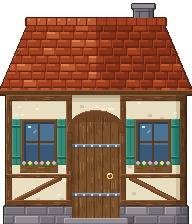
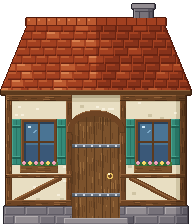
v3 village round 3: summer stone house from this tool, open chest lid inside the frame
- obj.v3.house_stone.png (summer) replaced by house_stone("summer") (the
  coordinator's decision): the pilot drawing plus short glints and a
  chimney cap one row lower; pilot_drawing=True still matches 814aa23
- obj.chest.open: lid 2 rows lower (row 0 is outline only); no winter
  file (no snow on an opened lid, the summer file is used)
- winter roofs: 4 drifts with their own span, height, slope and wave
- campfire snow kept 2 texels in from the sides; house eaves 1 texel in
- check tool: seasons without a file fall back to summer
- VILLAGE.md: the stone house decision, the memory decision (options 1
  and 2, 0.90 MB), round 3 table

Claude-Session: https://claude.ai/code/session_01VbGyibjwGmxCJ2yW5ydLfW

diff --git a/tools/art_v3/gen_village_v3.py b/tools/art_v3/gen_village_v3.py
@@ -202,7 +202,16 @@ def roof_snow(c, roof_mask, bot, mid_x, seed, eave_y=None, icicle_x=None):
     for y, x in zip(ys, xs):
         rows.setdefault(x, []).append(y)
     ytop = int(ys.min())
-    drift_rows = [ytop + (bot - ytop) * f for f in (0.22, 0.45, 0.66)]
+    # round 3: each drift its own span, height, slope and wave (not 3 ruled parallel lines)
+    x_lo, x_hi = int(xs.min()), int(xs.max())
+    span = x_hi - x_lo
+    drifts = [  # (row as a share of the roof, from, to (shares of the width), slope, wave amp, wave freq)
+        (0.20, 0.05, 0.62, 0.03, 1.5, 0.09),
+        (0.44, 0.30, 0.97, -0.04, 2.5, 0.06),
+        (0.64, 0.00, 0.55, 0.02, 2.0, 0.11),
+        (0.70, 0.62, 1.00, -0.02, 1.5, 0.08),
+    ]
+    drift_rows = [(ytop + (bot - ytop) * f, x_lo + span * a, x_lo + span * b, sl, amp, fr) for f, a, b, sl, amp, fr in drifts]
     for x, col in rows.items():
         top = min(col)
         edge = int(bot - 9 - 2.5 * math.sin(x * 0.11 + seed) - 1.5 * math.sin(x * 0.047 + 2 * seed))
@@ -222,8 +231,10 @@ def roof_snow(c, roof_mask, bot, mid_x, seed, eave_y=None, icicle_x=None):
                 # each drift a lit crest over a 2-row shade
                 f = (y - ytop) / max(1, edge - ytop)
                 t = 6 if f < 0.28 else 5 if f < 0.62 else 4
-                for kd, yy in enumerate(drift_rows):
-                    v = y - yy - 2.0 * math.sin(x * 0.07 + kd * 1.9 + seed)
+                for kd, (yy, xa, xb, sl, amp, fr) in enumerate(drift_rows):
+                    if not xa <= x <= xb:
+                        continue
+                    v = y - yy - sl * (x - xa) - amp * math.sin(x * fr + kd * 1.9 + seed)
                     if 0 <= v < 1:
                         t = 6
                     elif 1 <= v < 3:
@@ -537,8 +548,9 @@ def house(season):
     c.fill(step, "stone", 4)
     bevel(c, step)
     # roof (over the wall's top), eaves board
-    rm = c.m_poly([(0, H_ROOF_BOT), (192, H_ROOF_BOT), (164, H_ROOF_TOP), (28, H_ROOF_TOP)])
-    roof_tiles(c, rm, H_ROOF_TOP, H_ROOF_BOT, 28, 164, 0, 192, mid, rng)
+    # round 3: the eaves 1 texel in from the picture's sides (their outline inside the picture)
+    rm = c.m_poly([(1, H_ROOF_BOT), (191, H_ROOF_BOT), (164, H_ROOF_TOP), (28, H_ROOF_TOP)])
+    roof_tiles(c, rm, H_ROOF_TOP, H_ROOF_BOT, 28, 164, 1, 191, mid, rng)
     ridge = c.m_rect(26, H_ROOF_TOP - 6, 165, H_ROOF_TOP + 1)
     c.fill(ridge, "roof", 4)
     for x in range(26, 166, 10):
@@ -546,9 +558,9 @@ def house(season):
         c.fill(c.m_rect(x + 2, H_ROOF_TOP - 5, x + 3, H_ROOF_TOP - 4), "roof", 5)
     c.fill(c.m_rect(26, H_ROOF_TOP + 1, 165, H_ROOF_TOP + 1), "roof", 1)
     c.fill(c.m_rect(97, H_ROOF_TOP - 6, 165, H_ROOF_TOP + 1) & (c.mat == c.mid("roof")) & (c.tone > 1), "roof", 3)
-    eave = c.m_rect(0, H_ROOF_BOT, W - 1, H_ROOF_BOT + 4)
+    eave = c.m_rect(1, H_ROOF_BOT, W - 2, H_ROOF_BOT + 4)
     c.fill(eave, "timber", 2)
-    c.fill(c.m_rect(0, H_ROOF_BOT, W - 1, H_ROOF_BOT), "timber", 4)
+    c.fill(c.m_rect(1, H_ROOF_BOT, W - 2, H_ROOF_BOT), "timber", 4)
     roof_all = (c.mat == c.mid("roof")) & c.m_rect(0, 0, W - 1, H_ROOF_BOT)
     # the right end of the wall in shade
     darken_right(c, c.m_rect(0, H_ROOF_BOT + 5, W - 1, H), 176)
@@ -564,15 +576,17 @@ def house(season):
 # ------------------------------------------------------------------ the stone house's seasons
 
 
-def house_stone(season, pilot_glass=False):
+def house_stone(season, pilot_drawing=False):
     """The pilot's drawing steps, in the pilot's order with its random sequence (summer = the pilot's
     file, pixel for pixel; checked by main), then the season: autumn flowers (ramps), winter snow."""
     r = ramps_for(season)
-    if pilot_glass:
+    if pilot_drawing:
         r["glass"] = HS.RAMPS["glass"]
     c = Canvas(HS.W, HS.H, r)
     rng = random.Random(42)
     HS.chimney(c)
+    if not pilot_drawing:  # round 3: the chimney cap one row lower, its outline on row 0 (not cut by the edge)
+        c.mat[0, :] = 0
     HS.side_wall(c, rng)
     HS.stones(c, 16, HS.UP_BOT, 239, HS.G, rng)
     c.fill(c.m_rect(16, HS.UP_BOT, 239, HS.UP_BOT + 4), "stone", 1)
@@ -581,7 +595,7 @@ def house_stone(season, pilot_glass=False):
     HS.window(c, 36, 202, 40, 50)
     HS.window(c, 180, 202, 40, 50)
     HS.front_door(c)
-    if not pilot_glass:
+    if not pilot_drawing:
         short_glints(c)  # round 2 (the pilot's own drawing keeps its long glints)
     for y, x in zip(*np.nonzero(c.mat != 0)):
         if x > 228 and c.tone[y, x] > 1 and y > HS.ROOF_BOT:
@@ -593,7 +607,8 @@ def house_stone(season, pilot_glass=False):
         c.tone[fl] = 3
         roof_all = (c.mat == c.mid("roof")) & c.m_rect(0, 0, HS.W - 1, HS.ROOF_BOT)
         roof_snow(c, roof_all, HS.ROOF_BOT, HS.W / 2, 5, eave_y=HS.ROOF_BOT + 4, icicle_x=(6, 248))
-        snow_on(c, ("stone",), seed=2, depth=(2, 3), mound=2, region=c.m_rect(178, 0, 210, 6))
+        snow_on(c, ("stone",), seed=2, depth=(2, 3), mound=2, region=c.m_rect(178, 0, 210, 6)) if pilot_drawing else \
+            snow_on(c, ("stone",), seed=2, depth=(2, 2), mound=0, region=c.m_rect(178, 0, 210, 6))
         for x0, w, y0, h in ((36, 40, 202, 50), (180, 40, 202, 50), (40, 30, 114, 40), (186, 30, 114, 40)):
             ledge_snow(c, x0 - 4, x0 + w + 3, y0 + h + 3, 4)
         despeckle(c, keep=("pink", "yellow", "iron"), loose=("snow",))
@@ -630,15 +645,15 @@ def chest(season, opened):
         c.fill(c.m_rect(3, 24, 60, 24), "gold", 4)
         c.fill(c.m_rect(3, 27, 60, 27), "gold", 1)
     else:  # round 2: the lid thrown right back (its dark underside), a dark mouth, a heap of gold
-        under = c.m_poly([(5, 21), (58, 21), (55, 2), (8, 2)])
+        under = c.m_poly([(5, 21), (58, 21), (55, 4), (8, 4)])  # round 3: 2 rows lower
         c.fill(under, "chestwood", 1)  # the underside, away from the light: dark
         for y0 in (8, 14):  # the underside's planks: a lit lip over a dark seam
             c.fill(c.m_rect(0, y0, 63, y0) & under, "chestwood", 0)
             c.fill(c.m_rect(0, y0 - 1, 63, y0 - 1) & under, "chestwood", 2)
-        c.fill(under & c.m_rect(0, 3, 63, 4), "chestwood", 2)
-        edge = c.m_poly([(8, 3), (55, 3), (54, 0), (9, 0)])  # the lid's thickness on top, lit
+        c.fill(under & c.m_rect(0, 4, 63, 5), "chestwood", 2)
+        edge = c.m_poly([(8, 5), (55, 5), (54, 1), (9, 1)])  # the lid's thickness, lit; outline on row 0
         c.fill(edge, "chestwood", 4)
-        c.fill(edge & c.m_rect(0, 3, 63, 3), "chestwood", 3)
+        c.fill(edge & c.m_rect(0, 4, 63, 4), "chestwood", 3)
         for bx in (11, 46):  # gold bands across the underside
             band = under & c.m_rect(bx, 0, bx + 5, 63)
             c.fill(band, "gold", 2)
@@ -675,7 +690,8 @@ def chest(season, opened):
     c.fill(c.m_rect(31, ly + 8, 32, ly + 9), "chestwood", 1)
     darken_right(c, c.m_rect(0, 0, 63, 63) & (c.mat == c.mid("chestwood")), 52)
     if season == "winter":
-        snow_on(c, ("chestwood", "gold"), seed=4 + opened, depth=(3, 3), mound=2)
+        if not opened:  # round 3: an opened lid has shed its snow
+            snow_on(c, ("chestwood", "gold"), seed=4, depth=(3, 3), mound=2)
     finish(c, keep=("gold", "gem"), loose=("snow",))
     return c
 
@@ -875,7 +891,7 @@ def campfire(season, frame):
             stone(*st)
             if season == "winter" and abs(st[1] - 31.5) > 8:  # snow on the outer front stones (cold)
                 m = c.m_ellipse(st[1], st[0], st[2], st[3]) & c.m_rect(0, 0, 63, 54) & (c.mat == c.mid("stone"))
-                cap_part(c, m, 2, 4)
+                cap_part(c, m & c.m_rect(2, 0, 61, 63), 2, 4)
     finish(c, keep=("fire",), loose=("snow", "ash"), skip_outline=("fire",))
     return c
 
@@ -1181,9 +1197,9 @@ def signpost(season):
 
 ITEMS = [  # key, function(season) -> Canvas, seasons drawn (others fall back to summer)
     ("obj.house", house, ("summer", "autumn", "winter")),
-    ("obj.v3.house_stone", house_stone, ("autumn", "winter")),  # summer: the pilot's file
+    ("obj.v3.house_stone", house_stone, ("summer", "autumn", "winter")),  # summer replaces the pilot's (round 3)
     ("obj.chest.closed", lambda s: chest(s, False), ("summer", "winter")),
-    ("obj.chest.open", lambda s: chest(s, True), ("summer", "winter")),
+    ("obj.chest.open", lambda s: chest(s, True), ("summer",)),  # winter: no snow on it, the summer file
     ("obj.barrel", barrel, ("summer", "winter")),
     ("obj.crate", crate, ("summer", "winter")),
     ("obj.jar", jar, ("summer", "winter")),
@@ -1297,13 +1313,20 @@ def main(which):
     res = []
     for s in seasons:
         res += write(s)
-    # the stone house's summer: the pilot's file (not rewritten); check this script draws it the same
+    # round 3 (coordinator's decision): the stone house's summer file is this script's drawing (short
+    # glints, the chimney cap inside the picture). Check the pilot's own steps still give the pilot's
+    # picture (gfx/v3-art 814aa23), so the seasons are the pilot's house plus only those changes.
+    import io
+    import subprocess
     from PIL import Image
-    pilot = Image.open(os.path.join(OUT, "obj.v3.house_stone.png")).convert("RGBA")
-    same = np.array_equal(np.array(pilot), house_stone("summer", pilot_glass=True).rgba())
-    print("stone house summer, drawn with the pilot's glass ramp == pilot file:", same)
-    c = house_stone("summer")  # with the night-glass tone (what the pilot file would become)
-    res.append(("obj.v3.house_stone", "summer", c, pilot, None))
+    try:
+        blob = subprocess.run(["git", "-C", ROOT, "show", "814aa23:src/art-release-v3/objects/obj.v3.house_stone.png"],
+                              capture_output=True, check=True).stdout
+        pilot = np.array(Image.open(io.BytesIO(blob)).convert("RGBA"))
+        print("pilot steps (pilot_drawing=True) == the pilot picture of 814aa23:",
+              np.array_equal(pilot, house_stone("summer", pilot_drawing=True).rgba()))
+    except (subprocess.CalledProcessError, FileNotFoundError):
+        print("814aa23 not in this checkout: pilot check skipped")
     if which == "all":
         tab = glass_table(res)
         old = {}

diff --git a/tools/art_v3/check_village_v3.py b/tools/art_v3/check_village_v3.py
@@ -104,8 +104,10 @@ def main():
                    ("obj.brazier.0", "obj.brazier.1")):
         for name, d in (("now", CUR), ("v3", V.OUT), ("v3 winter", V.OUT)):
             pre = "winter." if name == "v3 winter" else ""
-            x = np.array(Image.open(os.path.join(d, pre + a_ + ".png")).convert("RGBA")).astype(float)
-            y = np.array(Image.open(os.path.join(d, pre + b_ + ".png")).convert("RGBA")).astype(float)
+            def ld(k):  # a season without its own file falls back to the summer file
+                f = os.path.join(d, pre + k + ".png")
+                return np.array(Image.open(f if os.path.exists(f) else os.path.join(d, k + ".png")).convert("RGBA")).astype(float)
+            x, y = ld(a_), ld(b_)
             op = (x[..., 3] > 0) | (y[..., 3] > 0)
             df = (x != y).any(-1) & op
             dl = np.abs(luma(x) * (x[..., 3] > 0) - luma(y) * (y[..., 3] > 0))

diff --git a/docs/art-release-v3/VILLAGE.md b/docs/art-release-v3/VILLAGE.md
@@ -1,7 +1,7 @@
 # v3 の村（量産の順 4、出来た分）— 家と村の小物
 
 - 書いた人：美術監督（2 人目）。合否・点数は付けない。数値はすべて「参考」
-- 版：第 2 版（独立検査 `gfx_r1/inspect_v3_village.md` の直す項目を反映。変えた所は 6 章）
+- 版：第 3 版（独立検査 `gfx_r1/inspect_v3_village.md` の 1・2 回目の直す項目と統括の決定を反映。変えた所は 6・7 章）
 - 作り方：`python3 tools/art_v3/gen_village_v3.py all`（同じ命令で全部同じ絵になる。2 回作って md5 一致を確認）
 - 検査の数値：`python3 tools/art_v3/check_village_v3.py`、比較画像：`python3 tools/art_v3/compare_village_v3.py <出力先>`
 - 置き場所：`src/art-release-v3/objects/`。仕様は STYLE.md 7 章（家と木の決まり）、10.2（メモリ）のまま。STYLE.md・NAMES.md は変えていない
@@ -13,7 +13,7 @@
 | キー | 今 | v3 | コマ | 季節のファイル | 中身 |
 |---|---|---|---|---|---|
 | `obj.house` | 96×112 | 192×224 | 1 | 夏・秋・冬 | 今の家の v3 版。赤い瓦（1 枚ずつ、段ごとにずらす、右半分 1 段暗い）、しっくいと木組み、青緑のよろい戸、花箱、アーチの板戸（104 点＝主人公の 93%）、石の土台 |
-| `obj.chest.closed` / `.open` | 32×28 | 64×56 | 各 1 | 夏・冬 | 閉：板 3 枚の箱、丸いふた、金の帯 2 本と鋲、錠前。開：ふたを後ろへ倒し（暗い裏の板と金の帯）、箱の口は暗い中身、金貨の山と青い宝石。錠前は閉と同じ形・色 |
+| `obj.chest.closed` / `.open` | 32×28 | 64×56 | 各 1 | 閉：夏・冬／開：夏だけ（冬は夏のファイル。開いたふたに雪はのせない） | 閉：板 3 枚の箱、丸いふた、金の帯 2 本と鋲、錠前。開：ふたを後ろへ倒し（暗い裏の板と金の帯）、箱の口は暗い中身、金貨の山と青い宝石。錠前は閉と同じ形・色 |
 | `obj.barrel` | 24×28 | 48×56 | 1 | 夏・冬 | ふくらみに沿った板の継ぎ目、鉄のたが 2 本、ふた |
 | `obj.crate` | 32×32 | 64×64 | 1 | 夏・冬 | 枠の板・中の板・斜めの筋かい・釘、上の面 |
 | `obj.jar` | 20×24 | 40×48 | 1 | 夏・冬 | 素焼きのつぼ、青緑のうわぐすりの帯 |
@@ -25,7 +25,7 @@
 | `obj.v3.fence.post` | 新 | 16×48 | 1 | 夏・冬 | 柵の柱だけ |
 | `obj.v3.well` | 新 | 128×128 | 1 | 夏・冬 | 井戸（ゲーム 32×32）。丸い石の囲い、水面、屋根の柱 2 本、巻き上げの軸と縄、つるべ、取っ手 |
 | `obj.v3.signpost` | 新 | 48×80 | 1 | 夏・冬 | 矢の形の看板（彫った線、文字は読めない）、柱の笠 |
-| `obj.v3.house_stone` | 新（見本） | 256×288 | 1 | 秋・冬（夏は見本のファイル） | 見本の石と木組みの家の季節違い |
+| `obj.v3.house_stone` | 新（見本の家） | 256×288 | 1 | 夏・秋・冬 | 見本の石と木組みの家。**夏もこの道具の絵**（統括の決定、7 章）：見本の描き方に、短い映り込みと、上の端で切れない煙突の笠だけを足したもの |
 
 - 季節：春は夏と同じ。**ファイルの無い季節は夏のファイルを使う**（秋は花箱の色だけが違うので、秋のファイルは家 2 種だけ）
 - 冬：屋根に雪（6 章）。上の面が 2 点以上の所にだけ 2 点以上の厚さで雪（1 点の雪は作らない）。花箱は空で雪。火の近くの石・炎には雪をのせない（たき火は外側の手前の石だけ、火皿は脚の肩だけ）。看板は板の平らな上の面と笠だけ（矢の斜めの縁には積もらせない）
@@ -36,8 +36,10 @@
 - `gfx/fx-v2` の `src/view/houseWindows.js` と同じ判定（`glassKind`：青が赤より 20 以上・青 ≥ 緑・明るさ 110 未満）で、**ガラスの画素だけ**が光る。映り込み（4・5 段）、窓枠、桟、よろい戸、花箱は光らない
 - 窓の位置（ゲーム px、足もとから）と画素の数：`docs/art-release-v3/village_windows.json`（`game: [x, y, w, h]`）。ゲームの `HOUSE_WINDOWS` に当たる表。v3 の家を組み込むときは、この表と大きさ（192×224／256×288）で窓を引く（今の `HOUSE_WINDOWS`・`HOUSE_GLASS`・`hasWindows` は今の家の 96×112 用なので、そのままでは使えない）
 - ガラスの基本の色（3 段）は `#4a7494`（`glassKind` の明るさ 107）
-- **夏の石の家（見本）**：gfx/v3-art の 814aa23 でガラスの色が `#4a7494` に直った。このブランチに gfx/v3-art を合流したので、`obj.v3.house_stone.png` は 814aa23 の絵（夜に光る 5878 点）。このブランチの作り方で夏を描くと 814aa23 の絵と 1 点も違わない（`gen_village_v3.py` が毎回確かめる）
-- 映り込みは窓 1 枚に 3×2 の光と短い 1 本（2 点幅×3 段、6 点）の 12 点（第 2 版）。家（夏・秋・冬）と石の家の秋・冬に入れた。**夏の石の家（見本のファイル）は見本の長い斜め線のまま**（窓 1 枚 69〜114 点）。同じ短い映り込みにするなら、見本の作り方に `short_glints` と同じ処理を入れる（見本の担当のファイル。このブランチでは変えていない）
+- **夏の石の家**：統括の決定（第 3 版）で、このブランチの `obj.v3.house_stone.png` は **この道具の絵 `house_stone("summer")`** に置きかえた。統合のときはこちらを使う（1 人目の美術監督の gfx/v3-art の作業とは別）。夜に光るガラス 6269 点、映り込み 60 点
+  - 中身は見本（gfx/v3-art 814aa23、ガラスの色 `#4a7494`）の描き方そのままに、短い映り込みと煙突の笠（1 行下げて、上の端に輪郭）を足しただけ
+  - `house_stone(season, pilot_drawing=True)` は見本の描き方だけ（長い映り込み、上の端までの煙突）を描く。`gen_village_v3.py` は毎回、これが git の 814aa23 の見本の絵と 1 点も違わないことを確かめる
+- 映り込みは窓 1 枚に 3×2 の光と短い 1 本（2 点幅×3 段、6 点）の 12 点。家と石の家の 3 季節すべて
 - **組み込みの注意**：窓の外にも `glassKind` が 1 になる色が 2 つある。鉄 `#56606a`（扉の帯。家 12 点、石の家 44 点）と、雪の輪郭 `#3a4866`（冬の家 293 点、冬の石の家 351 点）。houseWindows は窓の枠の中しか見ないので今は光らない。**窓の枠を使わずに絵全体から光る点を探す組み込み方にしないこと**
 - 石の家の戸口の灯り（黄色の角灯）は、ガラスの決まりでは光らない。効果の側で扱う
 
@@ -49,13 +51,13 @@
 | 足もとの行 | 44 枚すべて一番下の行（壺・井戸も） |
 | 半透明の点 | 0 |
 | 離れた画素（4 方向とも透明） | 0 |
-| 孤立 1 点（4 方向とも別の色、mech.py と同じ定義） | 0〜0.22% |
+| 孤立 1 点（4 方向とも別の色、mech.py と同じ定義） | 0〜0.19% |
 | 穴（縁に届かない透明） | 井戸だけ 3 か所 1155 点（屋根の下・柱と軸の間の空き。設計上）。ほかは 0 |
 | 色の外れ（その絵のランプに無い色） | 0 |
 | 最も暗い点の明るさ（Rec.709） | 36.1〜39.0 |
 | 色数 | 家 46〜49、小物 6〜22、井戸 28（冬 35。下の注） |
-| 状態の組（違う画素の割合／明るさの差の平均。不透明の和の中で） | 宝箱 57.8%／48.2（今 47.3%／36.8）、スイッチ 50.8%／29.6（今 48.7%／39.2）、チェックポイント 15.5%／13.0、たき火 20.3%／19.2、かがり火 17.3%／17.0 |
-| 冬の屋根の雪：最多 2 色の割合 | 家 57.2%、石の家 59.2%（第 1 版 85%） |
+| 状態の組（違う画素の割合／明るさの差の平均。不透明の和の中で） | 宝箱 57.7%／48.0（今 47.3%／36.8）、スイッチ 50.8%／29.6（今 48.7%／39.2）、チェックポイント 15.5%／13.0、たき火 20.3%／19.2、かがり火 17.3%／17.0 |
+| 冬の屋根の雪：最多 2 色の割合 | 家 58.0%、石の家 59.3%（第 1 版 85%） |
 | 夜の窓：窓の中で光るがガラスでない画素 | 0（全部の家・季節） |
 
 - **井戸の色数が目安（草花・小物 6〜24）を超える理由**：1 枚に 6 つの素材があるため。石（囲いと縁、5 段）、水（4 段）、柱の木（5 段）、屋根とつるべの板（5 段）、縄（3 段）、鉄（たがと取っ手、4 段）。どれも素材の段の数は他の小物と同じで、粒を散らして色を増やしてはいない。冬はこれに雪の 7 段が加わる。井戸は 2×2 マスの「小さい建物」なので、家の目安（40〜56）の側に近い
@@ -65,7 +67,15 @@
 - 1 季節分（21 枚、RGBA）：0.753 MB、詰め方のむだ 10% 込みで **0.828 MB**（夏・秋・冬とも同じ。季節のファイルが無いキーは夏の絵を数えた）
 - 1 季節だけ持つ前提（10.1 の 1）。2 季節を同時に持つと 1.66 MB で枠を超える
 
-### 4.1 家の種類を増やすときの収め方（案。決めるのは統括とゲーム開発の担当）
+### 4.0 決定（統括、第 3 版）
+
+- **下の 4.1 の 1 と 2 を採用する**
+  - 1：村ごとに、その村で使う家の種類だけを読み込む
+  - 2：村の外でも使う小物（宝箱・壺・箱・スイッチ・チェックポイント・たき火・かがり火）は、村の枠から外す（共通または地方の枠に数える）
+- この 2 つで、村の枠は **0.90 MB**（統括の計算）。1.0 MB の中に入る
+- 3（部品で組む）と 4（8 bit の絵）は、家の種類がさらに増えたときの手として残す
+
+### 4.1 家の種類を増やすときの収め方（案。第 2 版で書いたもの）
 
 今の 2 種だけで 0.51 MB（石の家 0.32、家 0.19、むだ込み）。STYLE 7.3 の予定の 5〜6 種をそのまま RGBA で足すと、家だけで約 1.4〜1.7 MB になり、1.0 MB の枠に入らない。効く順に：
 
@@ -75,7 +85,7 @@
 4. **8 bit の番号の絵＋色の表**（STYLE 10.2 の手 1）。家はランプの段で塗っているので向いている。1/4 になり、6 種でも 0.4 MB ほど。ゲームの描き方の変更が要る
 5. 透明な余白を切る手は効かない（測ると 0.78 MB で、ほとんど減らない）
 
-## 5. 比較画像（第 2 版：`gfx_r1/v3_village2/`）
+## 5. 比較画像（第 2 版：`gfx_r1/v3_village2/`、第 3 版は `v3_village3/`）
 
 - `01_items_same_size.png`：全キー、今｜v3 夏｜（秋）｜v3 冬。同じゲーム内の大きさ
 - `02`〜`04`：村の場面（15 Pro、k=2、20×9.2 マス）。今・v3 の夏・秋・冬、夜（今・v3）
@@ -100,3 +110,17 @@
 | P3-11 井戸の色数 | 3 章に理由を書いた |
 | P3-12 窓の外の光る色 | 2 章に組み込みの注意を書いた |
 | P3-14 メモリ | 4.1 に収め方の案を書いた |
+
+## 7. 第 3 版で変えたこと（2 回目の検査・統括の決定との対応）
+
+| 項目 | 直した所 |
+|---|---|
+| 決定：夏の石の家 | `obj.v3.house_stone.png` をこの道具の絵に置きかえた（2 章） |
+| R2-2 宝箱（開）の上の端 | ふたを 2 行下げ、y=0 の行は輪郭だけ（明るさ 70 超えの点 0）。冬は開いたふたに雪をのせない（冬のファイルをやめ、夏のファイルを使う） |
+| 決定：メモリ | 4.0 に手 1・手 2 の採用（0.90 MB）を書いた |
+| 吹きだまり | 4 本それぞれに長さ（屋根の幅の 35〜67%）・高さ・傾き・波を変えた（平行の定規の線をやめた）。最多 2 色は家 58.0%、石の家 59.3% |
+| 引数の名前 | `pilot_glass` → `pilot_drawing`（見本の描き方だけ。長い映り込み・上の端までの煙突） |
+| 煙突の笠 | 石の家の笠を 1 行下げ、上の端に輪郭（夏・秋・冬） |
+| 端に触れる点 | 冬のたき火の雪を絵の左右 2 点の内側だけに。家の軒を左右 1 点内側へ（輪郭が絵の中に入る） |
+
+- 端の点（明るさ 70 超えで絵の上・左・右の端にある点）：残るのは柵の横木の切り口（つながるための設計）と、冬の絵の雪の輪郭 `#3a4866`（明るさ 71、輪郭の色そのもの）だけ
